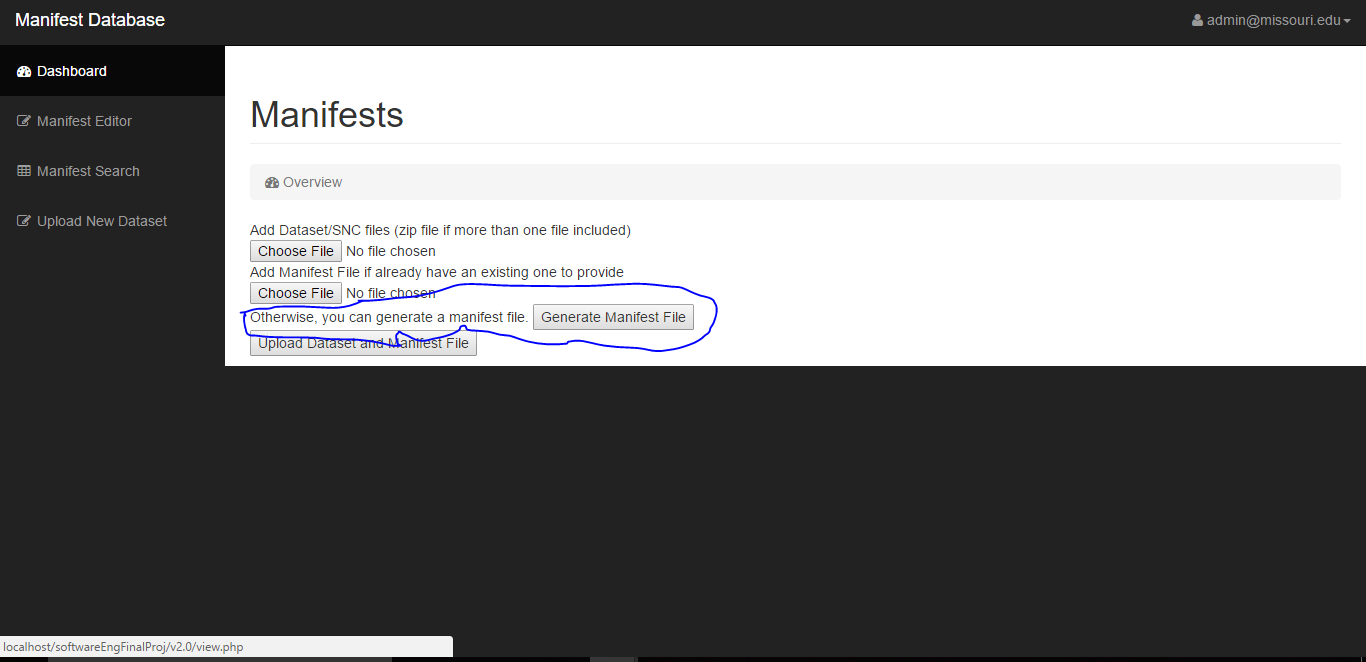
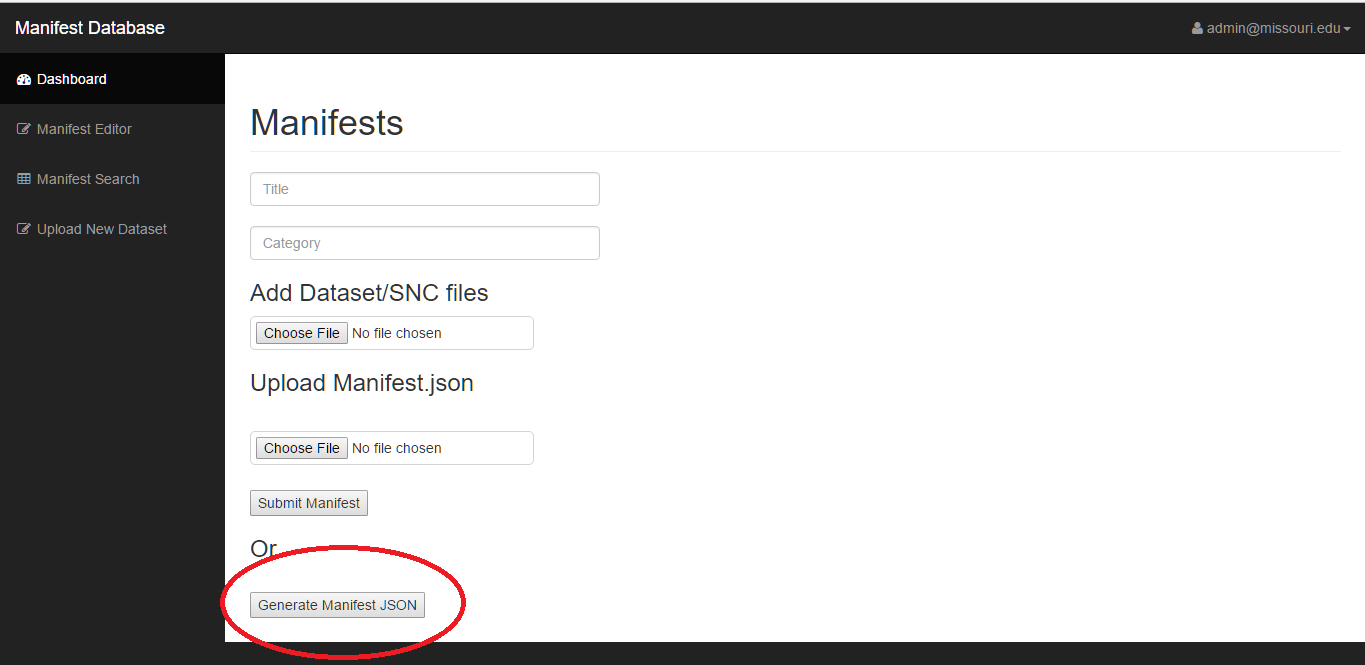
finish user doc

diff --git a/UserDocumentation.md b/UserDocumentation.md
@@ -68,11 +68,11 @@ To upload the dataset files, click "Choose a file" under the add dataset/SNC fil
     
 ![upload manifest](/UserDocImages/upload_datasetfiles.PNG)
 
-To upload an existing manifest file of the desired format, simply click "choose a file" under the add manifest header
+To upload an existing manifest file of the desired format, simply click "choose a file" under the upload Manifest.json header
     
 ![upload manifest](/UserDocImages/upload_manifest.PNG)
     
-If desired, the user has the ability to create a new manifest file, generated by the site, by clicking "Generate Manifest File" 
+If desired, the user has the ability to create a new manifest file, generated by the site, by clicking "Generate Manifest JSON" 
     
 ![upload manifest](/UserDocImages/generate_manifest.PNG)
     
@@ -84,13 +84,13 @@ Here is the expanded form:
 ![expanded_form](/UserDocImages/form_expand.PNG)
 
 
-Clicking "Upload Dataset and Manifest File" will (if all required files are supplied) upload your new dataset to the server. 
+Clicking "Submit" will (if all required files are supplied) upload your new dataset to the server. 
 
 ![upload_dataset](/UserDocImages/upload_complete.PNG)
    
 #Download Manifest/Dataset files
 
-To download files from a manifest, simply press "download dataset/SNC files" for the dataset files or "download manifest" for a manifest file download. This will allow you to download that file locally.
+To download files from a manifest, simply press "download dataset file" for the dataset file or "download manifest" for a manifest file download. This will allow you to download that file locally.
 
 ![download](/UserDocImages/view_manifest1.PNG)
 
